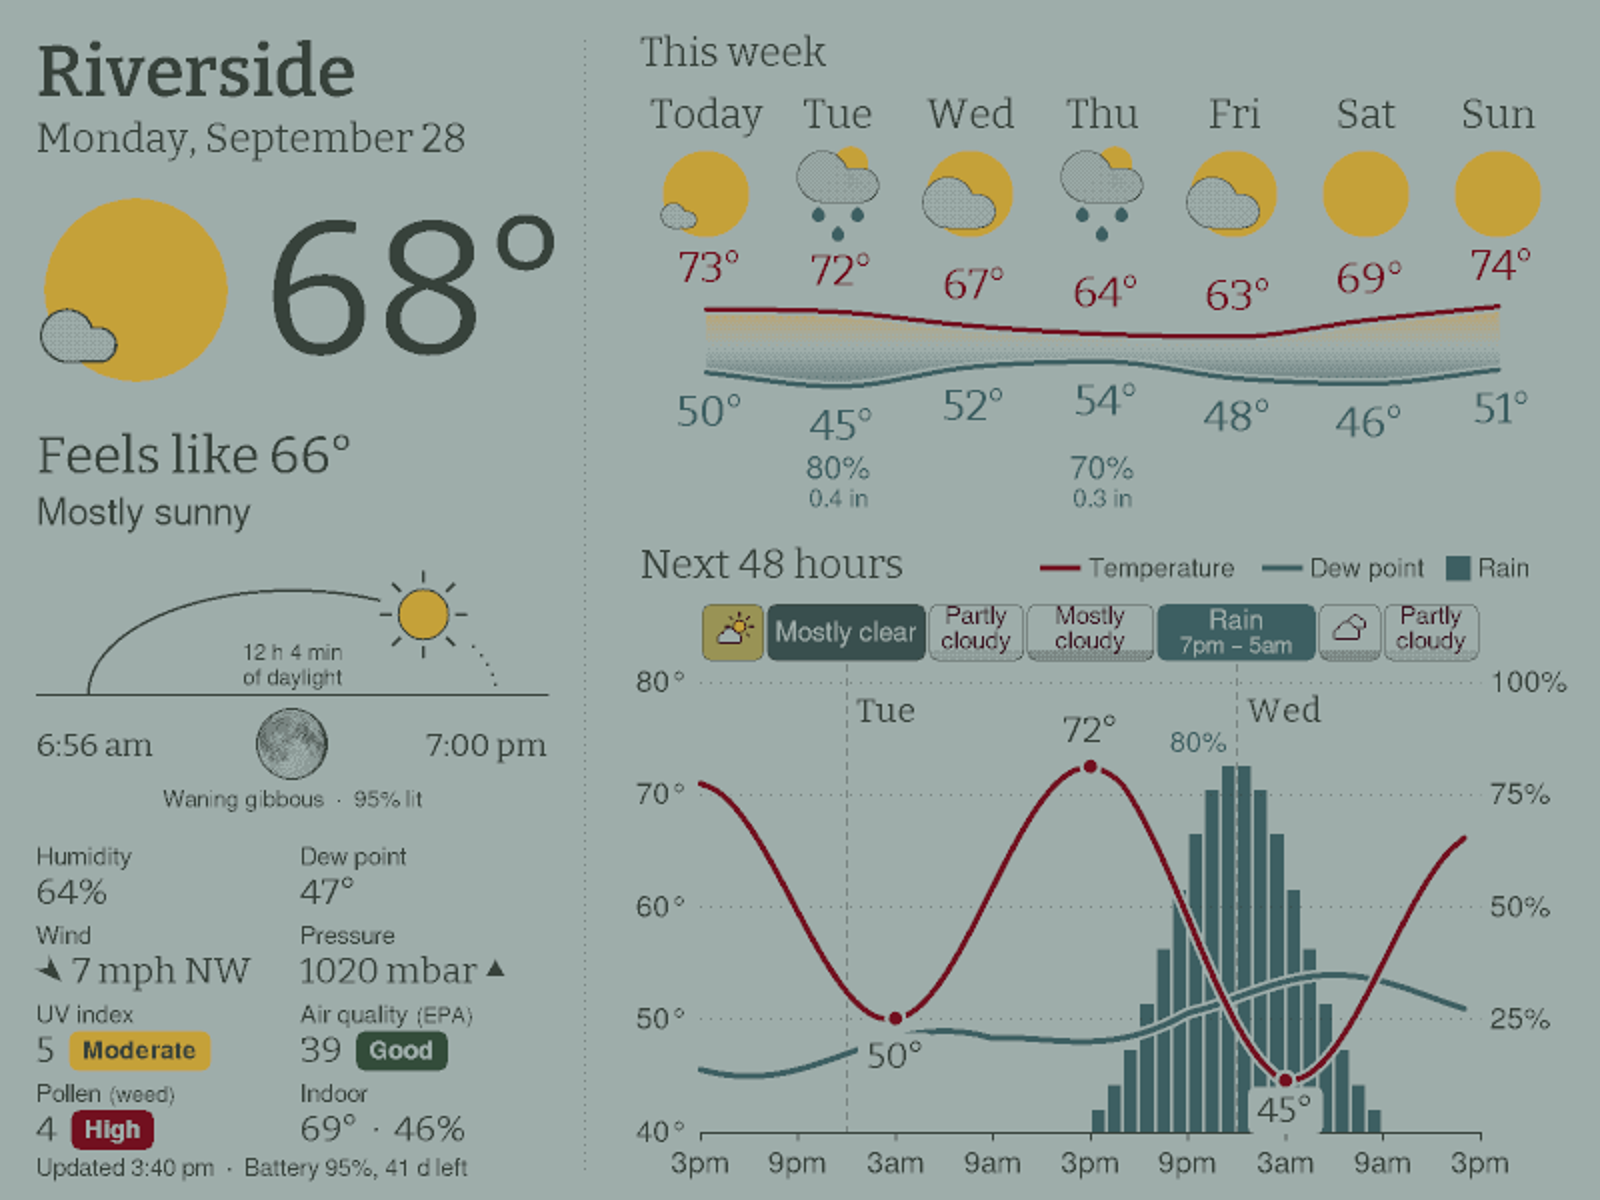
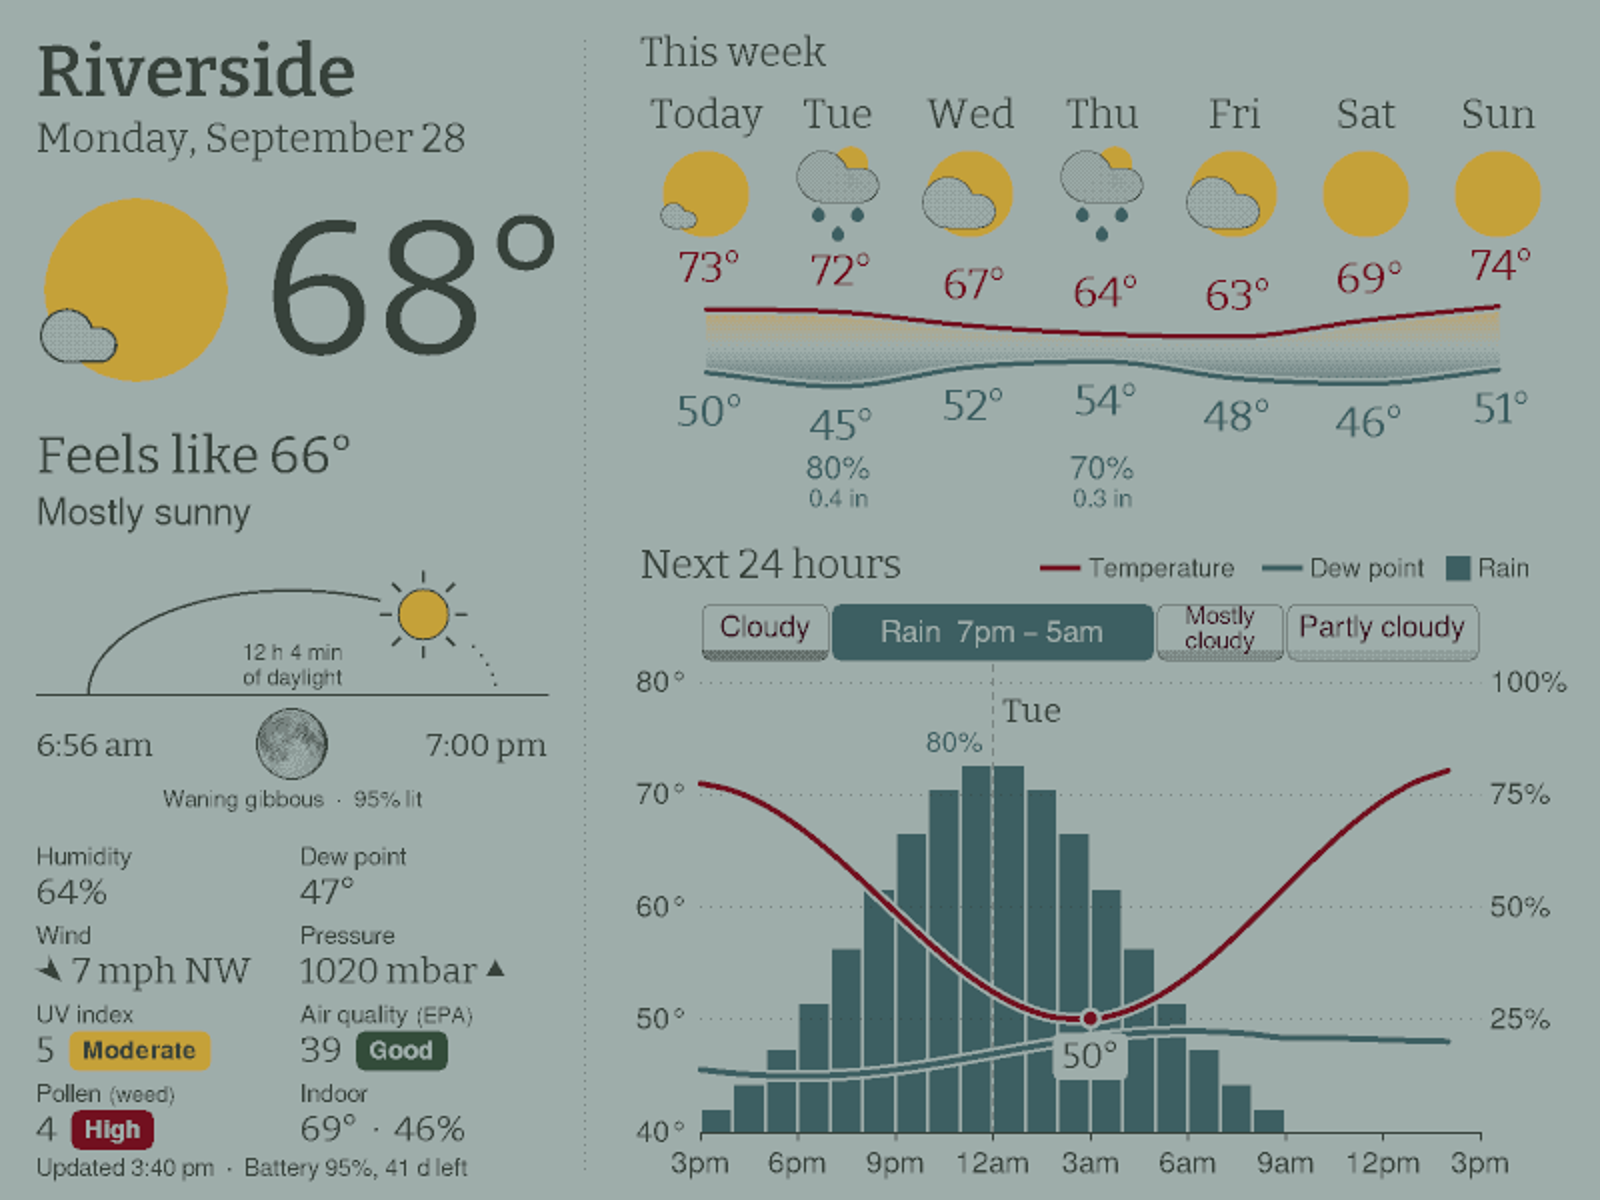
README preview: the 24-hour graph, as the panel is set
A sim709 scene for the README (sim_readme): the default 24-hour graph with the sample's rain brought forward to fall tonight, so the bars, the timeline's rain spell and the 3-hour labels all show.

diff --git a/tools/sim709/sim_main.cpp b/tools/sim709/sim_main.cpp
@@ -123,12 +123,17 @@ static float dewAt(float h)
 {
   return 47 + 5 * clamp01((h - 18) / 12) + 2 * sinf((15 + h) / 24 * 2 * M_PI);
 }
+// hours by which the sample's rain and cloud come early: the README's
+// picture shows a 24-hour graph, which the rain at hour 33 would miss
+static float g_rainLead = 0;
 static float popAt(float h)
 {
+  h += g_rainLead;
   return std::max(0.0f, 85 * expf(-powf((h - 33) / 5.5f, 2)) - 3);
 }
 static float cloudAt(float h)
 {
+  h += g_rainLead;
   static const float K[][2] = {{0, 20}, {6, 12}, {11, 18}, {16, 40}, {24, 78}, {30, 100},
                                {37, 95}, {40, 70}, {44, 45}, {48, 35}, {96, 30}};
   for (size_t i = 1; i < sizeof(K) / sizeof(K[0]); ++i)
@@ -394,6 +399,13 @@ int main(int argc, char **argv)
   LON = "-75.0";
 
   weather((out + "/sim_day.ppm").c_str(), false, 0);
+  // the README's picture: a 24-hour graph, as the panel is usually set, with
+  // the sample's rain brought forward to fall tonight
+  HOURLY_GRAPH_MAX = 24;
+  g_rainLead = 24;
+  weather((out + "/sim_readme.ppm").c_str(), false, 0);
+  g_rainLead = 0;
+  HOURLY_GRAPH_MAX = 48;
   HOURLY_GRAPH_MAX = 24;
   weather((out + "/sim_day24.ppm").c_str(), false, 0);
   HOURLY_GRAPH_MAX = 36;

diff --git a/README.md b/README.md
@@ -109,7 +109,7 @@ Other items needed:
 
   ![preview](showcase/preview-gdeb0709e01.png)
 
-  *(What the firmware draws, rendered on a PC in the panel's measured colours, set against white paper: the panel's white is a green-grey that reflects about 40 % as much light as paper. Sample weather, with the graph set to 48 hours.)*
+  *(What the firmware draws, rendered on a PC in the panel's measured colours, set against white paper: the panel's white is a green-grey that reflects about 40 % as much light as paper. Sample weather.)*
 
   The Good Display GDEB0709E01 is a 7.09in Spectra 6 panel the size of the ones above with four times the dots: 1600x1200 in landscape, 282 ppi. It is driven by Seeed's [XIAO ePaper Display Board EE02](https://www.seeedstudio.com/XIAO-ePaper-Display-Board-EE02-p-6639.html) (XIAO ESP32-S3 Plus, battery charger, three buttons), which takes the panel's 60-pin cable directly.
 
